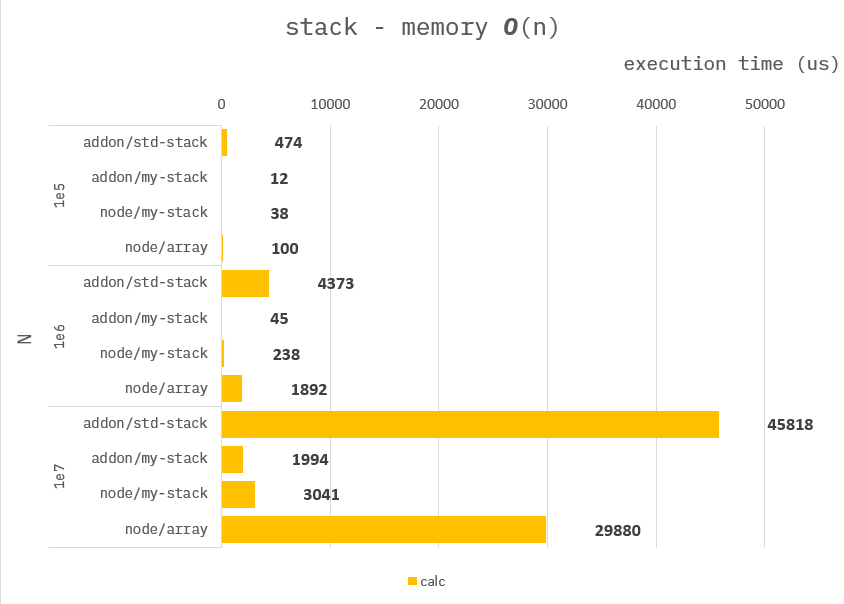
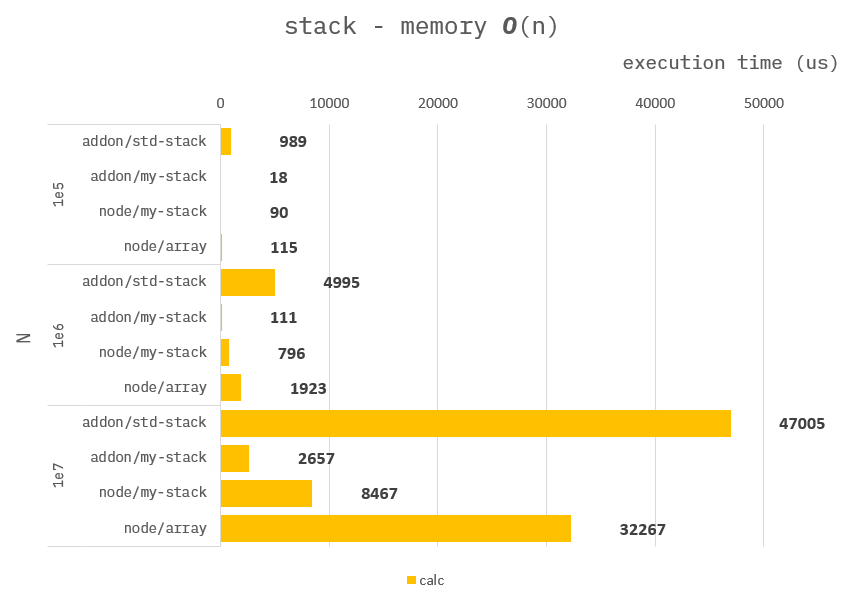
classify

diff --git a/3-1.ds stack/src/index.ts b/3-1.ds stack/src/index.ts
@@ -1,5 +1,6 @@
 import { benchmark, BenchmarkTargetGroup } from "./benchmark";
 import { addon, AddonParamType } from "./addon";
+import { MyStack } from "./mystack";
 
 //
 // define BenchmarkTarget.
@@ -10,28 +11,31 @@ const targets: BenchmarkTargetGroup = [
     },
     {
         func: addon.testStack2,
-        name: "napi/ds-arr-stack"
+        name: "napi/ds-my-stack"
     },
     {
         func: function testStackTrr({ N }) {
-            const stack = new Int32Array(N);
-            let cur = 0;
+            const stack = new MyStack(Int32Array, N);
             for (let i = 0; i < N; i++) {
-                stack[cur++] = i;
-                --cur;
+                stack.push(N);
+            }
+            for (let i = 0; i < N; i++) {
+                stack.pop();
             }
             return {
-                ans: cur === 0 ? undefined : stack[cur - 1],
+                ans: stack.isEmpty() ? undefined : stack.top(),
                 statics: {}
             };
         },
-        name: "node/ds-test-stack-arr"
+        name: "node/ds-my-stack"
     },
     {
         func: function testStackArr({ N }) {
             const stack = [];
             for (let i = 0; i < N; i++) {
                 stack.push(N);
+            }
+            for (let i = 0; i < N; i++) {
                 stack.pop();
             }
             return {
@@ -39,7 +43,7 @@ const targets: BenchmarkTargetGroup = [
                 statics: {}
             };
         },
-        name: "node/ds-test-stack-trr"
+        name: "node/ds-array-stack"
     }
 ];
 

diff --git a/3-1.ds stack/src/mystack.ts b/3-1.ds stack/src/mystack.ts
@@ -1,0 +1,43 @@
+type TypedArray = Int8Array | Int16Array | Int32Array | Uint8Array | Uint16Array | Uint32Array;
+type TypedArrayConstructor = {
+    new (size: number): TypedArray;
+};
+
+export class MyStack {
+    private typedArray: TypedArray;
+    private size: number = 0;
+    private capacity: number = 0;
+    constructor(typedArray: TypedArrayConstructor, size: number) {
+        this.capacity = size;
+        this.typedArray = new typedArray(this.capacity);
+    }
+
+    isEmpty() {
+        return this.size === 0;
+    }
+
+    isFull() {
+        return this.size === this.capacity;
+    }
+
+    push(val: number) {
+        if (this.isFull()) {
+            throw new Error("stack is full");
+        }
+        this.typedArray[this.size++] = val;
+    }
+
+    pop() {
+        if (this.isEmpty()) {
+            throw new Error("deque is empty");
+        }
+        --this.size;
+    }
+
+    top(): number {
+        if (this.isEmpty()) {
+            throw new Error("deque is empty");
+        }
+        return this.typedArray[this.size - 1];
+    }
+}

diff --git a/3-1.ds stack/src/cppsrc/main.cpp b/3-1.ds stack/src/cppsrc/main.cpp
@@ -1,3 +1,4 @@
+#include "./mystack.cpp"
 #include <chrono>
 #include <napi.h>
 #include <sstream>
@@ -20,6 +21,8 @@ Napi::Object testStack1(const Napi::CallbackInfo& info)
     time.push_back(std::chrono::high_resolution_clock::now());
     for (auto i = 0; i < N; i++) {
         s.push(i);
+    }
+    for (auto i = 0; i < N; i++) {
         s.pop();
     }
     time.push_back(std::chrono::high_resolution_clock::now());
@@ -28,7 +31,10 @@ Napi::Object testStack1(const Napi::CallbackInfo& info)
     // return null.
     auto ans = Napi::Object::New(env);
     auto statics = Napi::Object::New(env);
-    ans["ans"] = env.Undefined();
+    if (s.empty())
+        ans["ans"] = env.Undefined();
+    else
+        ans["ans"] = s.top();
     ans["statics"] = statics;
     statics["calc"] = std::chrono::duration_cast<std::chrono::nanoseconds>(time[1] - time[0]).count();
     return ans;
@@ -43,15 +49,16 @@ Napi::Object testStack2(const Napi::CallbackInfo& info)
     auto env = info.Env();
     auto obj = info[0].As<Napi::Object>();
     auto N = obj.Get("N").ToNumber().Int32Value();
-    auto stack = new int32_t[N];
-    auto cursor = 0;
+    MyStack<int32_t> s(N);
 
     //
     // simulate.
     time.push_back(std::chrono::high_resolution_clock::now());
     for (auto i = 0; i < N; i++) {
-        stack[cursor++] = i;
-        --cursor;
+        s.push(i);
+    }
+    for (auto i = 0; i < N; i++) {
+        s.pop();
     }
     time.push_back(std::chrono::high_resolution_clock::now());
 
@@ -59,13 +66,13 @@ Napi::Object testStack2(const Napi::CallbackInfo& info)
     // return null.
     auto ans = Napi::Object::New(env);
     auto statics = Napi::Object::New(env);
-    ans["ans"] = env.Undefined();
+    if (s.isEmpty())
+        ans["ans"] = env.Undefined();
+    else
+        ans["ans"] = s.top();
     ans["statics"] = statics;
     statics["calc"] = std::chrono::duration_cast<std::chrono::nanoseconds>(time[1] - time[0]).count();
 
-    //
-    // free memory.
-    delete stack;
     return ans;
 }
 

diff --git a/3-1.ds stack/src/cppsrc/mystack.cpp b/3-1.ds stack/src/cppsrc/mystack.cpp
@@ -1,0 +1,60 @@
+
+#ifndef __MYSTACK_CPP_
+#define __MYSTACK_CPP_
+
+#include <iostream>
+
+template <typename T>
+class MyStack {
+private:
+    T* data = nullptr;
+    size_t cursor = 0;
+    const size_t capacity = 0;
+
+public:
+    MyStack(size_t N) : capacity(N)
+    {
+        data = new T[N];
+    }
+
+    ~MyStack()
+    {
+        delete data;
+    }
+
+    bool isEmpty()
+    {
+        return cursor == 0;
+    }
+
+    bool isFull()
+    {
+        return cursor == capacity;
+    }
+
+    void push(T val)
+    {
+        if (isFull()) {
+            throw "stack is full";
+        }
+        data[cursor++] = val;
+    }
+
+    void pop()
+    {
+        if (isEmpty()) {
+            throw "stack is empty";
+        }
+        --cursor;
+    }
+
+    T top()
+    {
+        if (isEmpty()) {
+            throw "stack is empty";
+        }
+        return data[cursor - 1];
+    }
+};
+
+#endif
